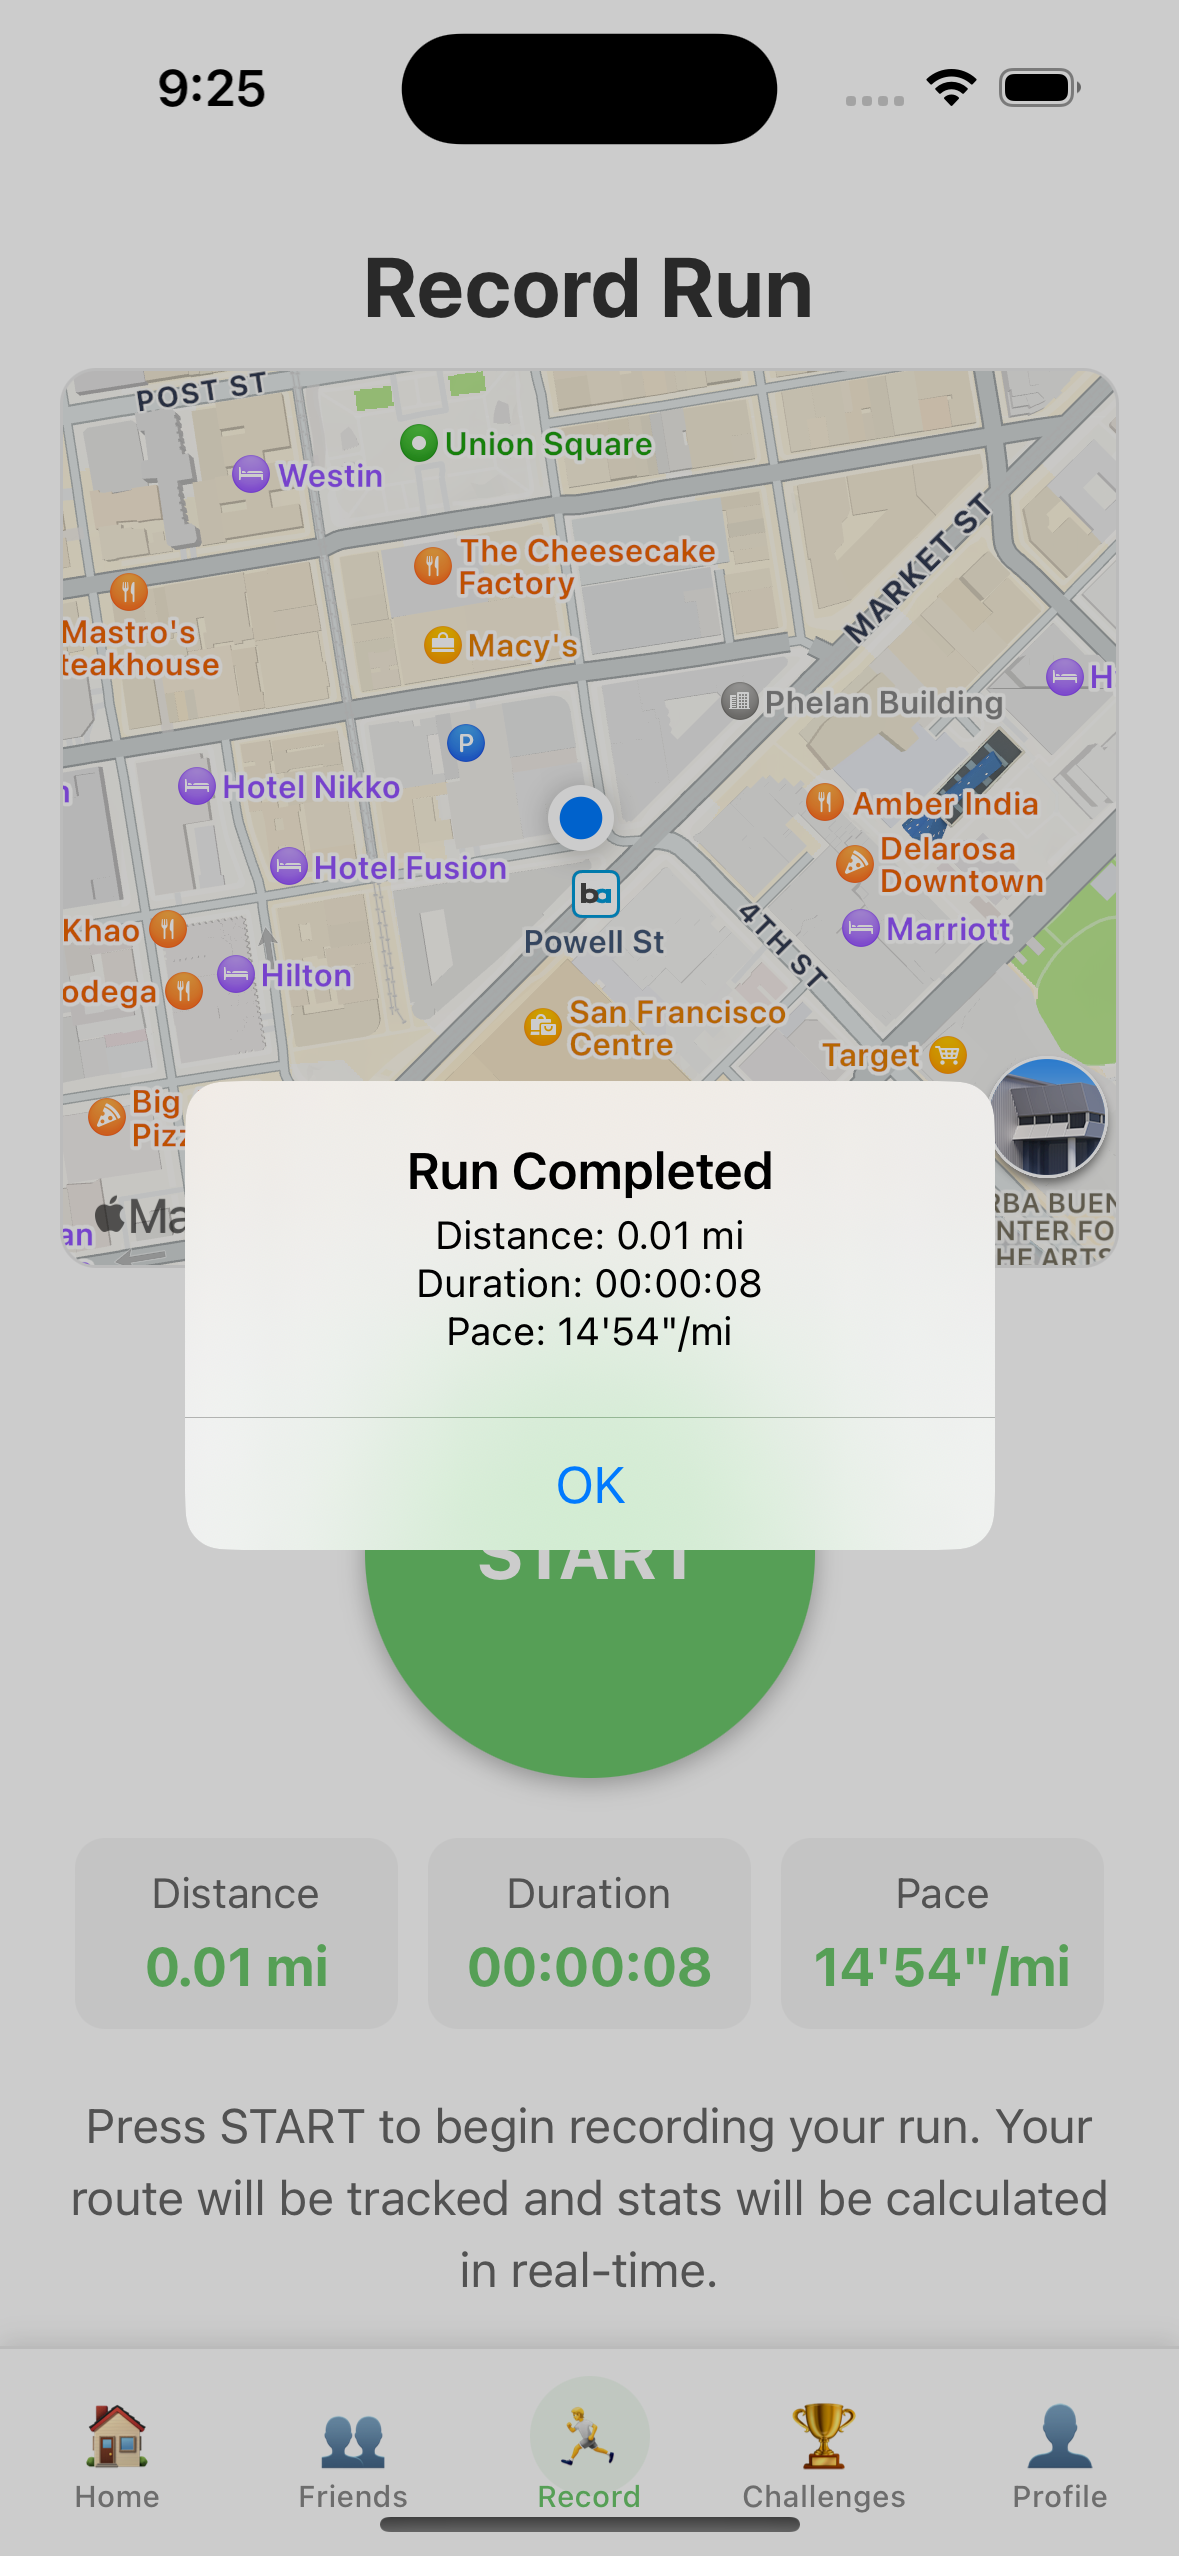
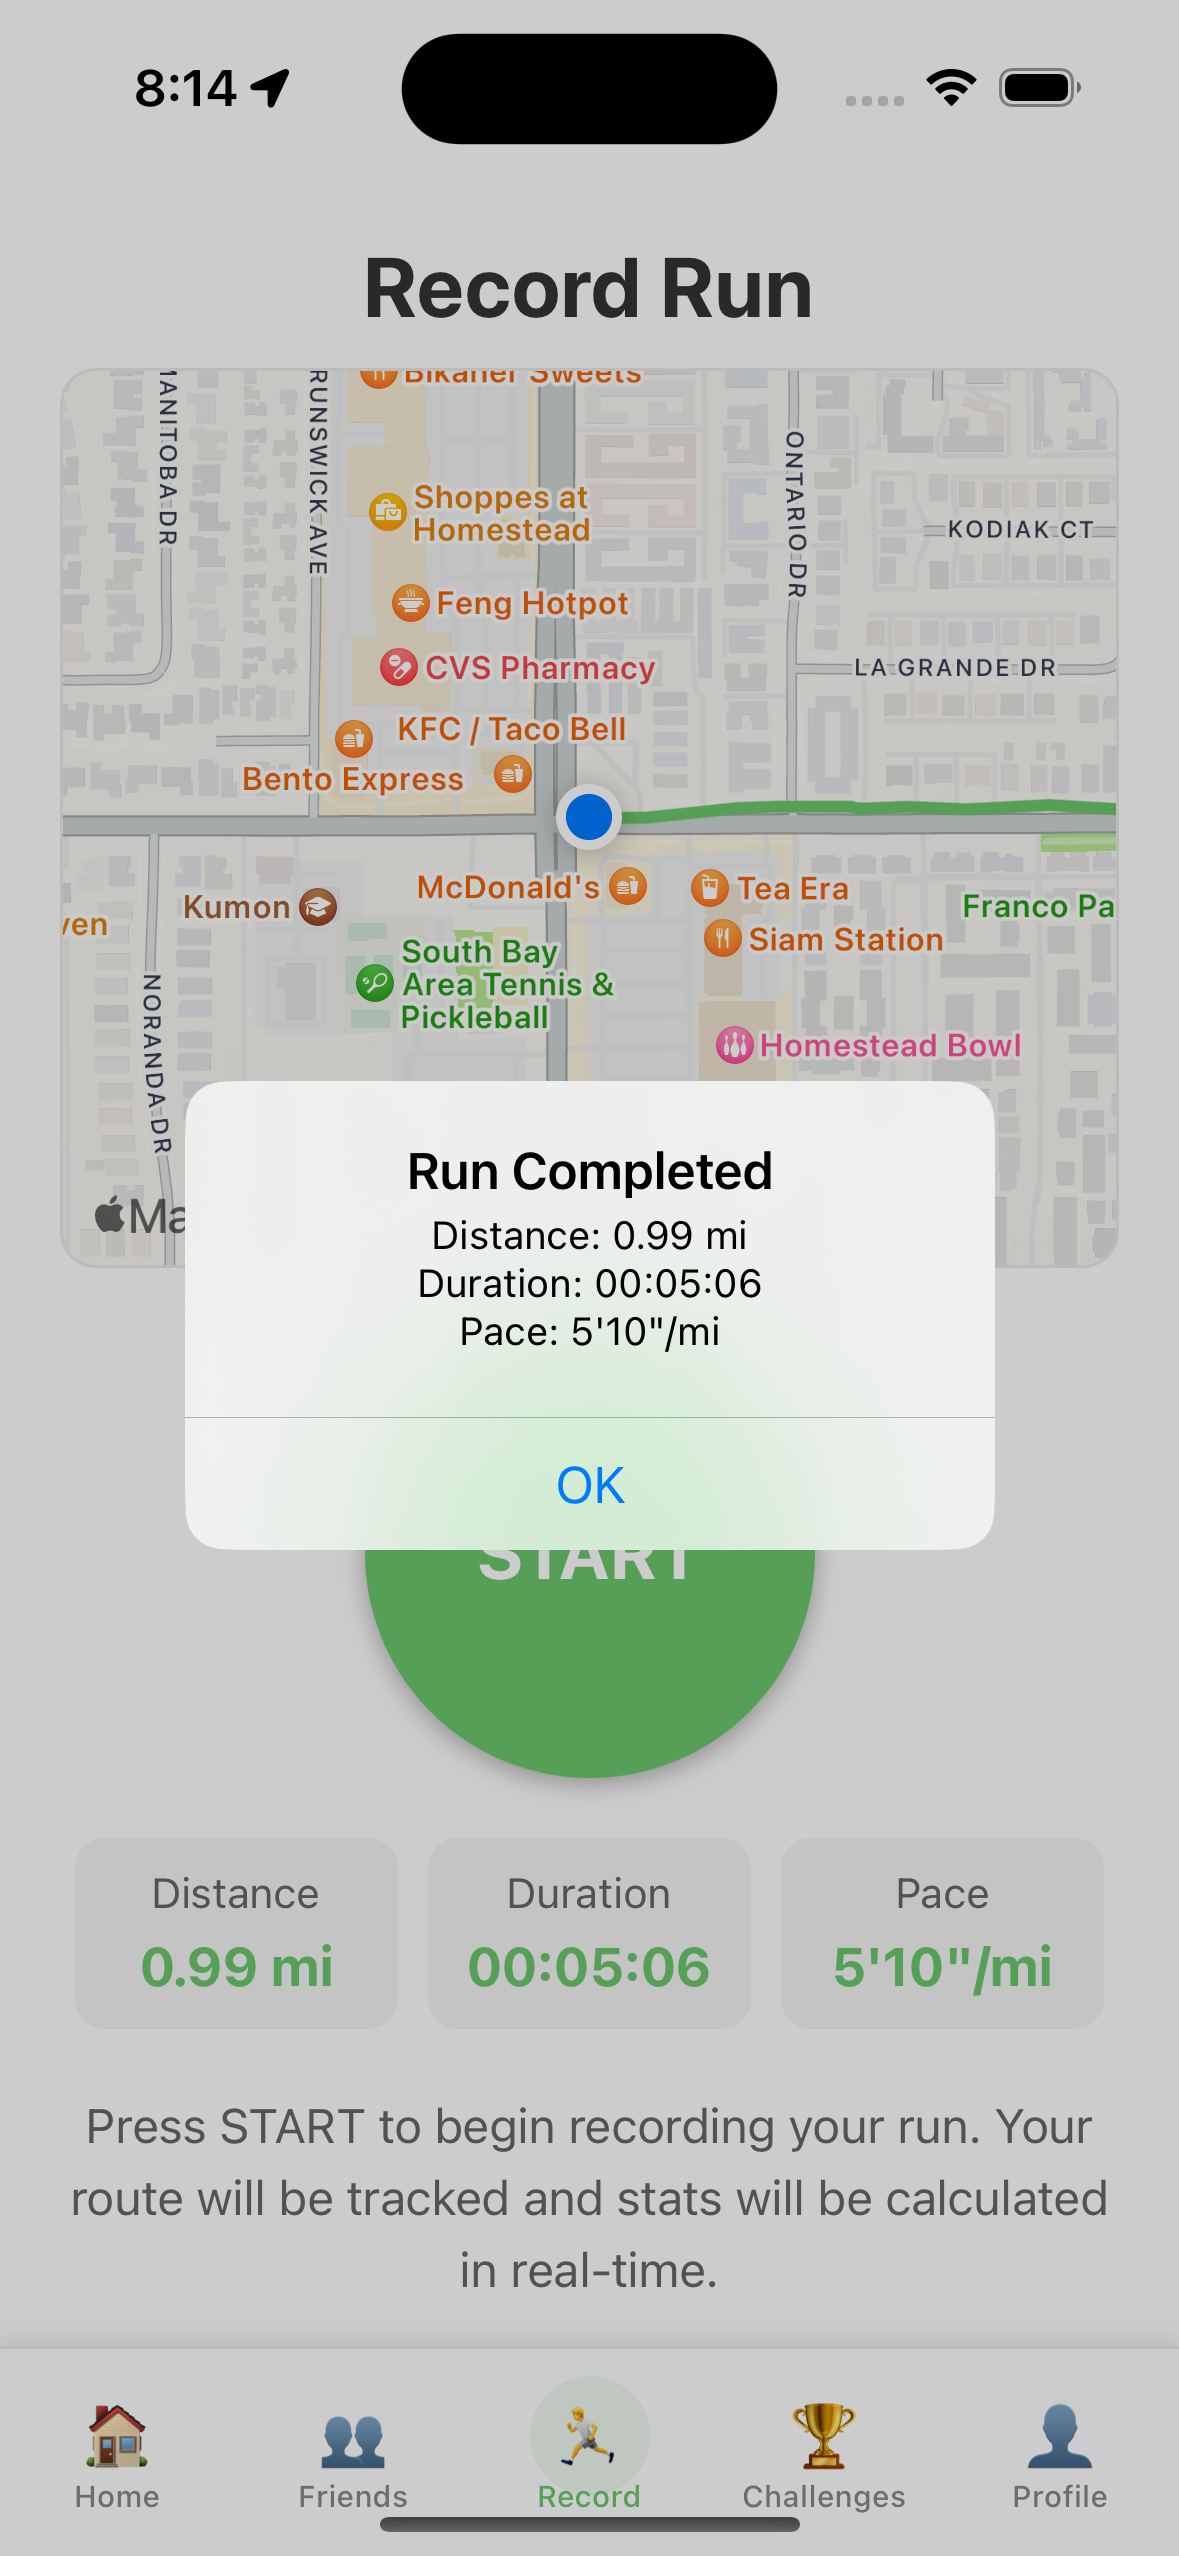
run functionality

diff --git a/src/screens/Record/RecordScreen.tsx b/src/screens/Record/RecordScreen.tsx
@@ -212,46 +212,47 @@ const RecordScreen = () => {
         setRouteCoordinates([location]);
       }
 
-      // For simulator testing
+      // For simulator testing - use a more aggressive polling approach
       if (__DEV__ && Platform.OS === 'ios') {
-        // Use a more controlled simulation for the simulator
+        // Poll for location changes more frequently
         watchId.current = setInterval(() => {
-          if (!location) {return;}
+          // Get current location on each interval
+          Geolocation.getCurrentPosition(
+            (position) => {
+              const newCoordinate = {
+                latitude: position.coords.latitude,
+                longitude: position.coords.longitude,
+              };
 
-          // Create a new coordinate with a small random offset (less frequent)
-          const newCoordinate = {
-            latitude: location.latitude + (Math.random() - 0.5) * 0.0002,
-            longitude: location.longitude + (Math.random() - 0.5) * 0.0002,
-          };
+              // Only add to route if position actually changed
+              if (!location ||
+                  newCoordinate.latitude !== location.latitude ||
+                  newCoordinate.longitude !== location.longitude) {
 
-          setLocation(newCoordinate);
+                setLocation(newCoordinate);
 
-          setRouteCoordinates(prevCoordinates => {
-            if (!Array.isArray(prevCoordinates) || prevCoordinates.length === 0) {
-              return [newCoordinate];
-            }
+                setRouteCoordinates(prevCoordinates => {
+                  if (!Array.isArray(prevCoordinates) || prevCoordinates.length === 0) {
+                    return [newCoordinate];
+                  }
 
-            const updatedCoordinates = [...prevCoordinates, newCoordinate];
+                  const updatedCoordinates = [...prevCoordinates, newCoordinate];
 
-            // Calculate new distance
-            const lastCoord = prevCoordinates[prevCoordinates.length - 1];
-            if (lastCoord) {
-              const newDistance = haversine(lastCoord, newCoordinate, { unit: 'mile' });
-              setDistance(prevDistance => prevDistance + newDistance);
-            }
+                  // Calculate new distance
+                  const lastCoord = prevCoordinates[prevCoordinates.length - 1];
+                  if (lastCoord) {
+                    const newDistance = haversine(lastCoord, newCoordinate, { unit: 'mile' });
+                    setDistance(prevDistance => prevDistance + newDistance);
+                  }
 
-            return updatedCoordinates;
-          });
-
-          // Center map on new location
-          if (mapRef.current) {
-            mapRef.current.animateToRegion({
-              ...newCoordinate,
-              latitudeDelta: 0.005,
-              longitudeDelta: 0.005,
-            });
-          }
-        }, 3000); // Less frequent updates (every 3 seconds)
+                  return updatedCoordinates;
+                });
+              }
+            },
+            (error) => console.log(error),
+            { enableHighAccuracy: true, timeout: 5000, maximumAge: 0 }
+          );
+        }, 500); // Poll every 500ms
       } else {
         // Watch position changes
         watchId.current = Geolocation.watchPosition(
@@ -271,25 +272,14 @@ const RecordScreen = () => {
                 longitude: position.coords.longitude,
               };
 
-              // For simulator testing - add small random movement if not moving
-              if (location &&
-                  newCoordinate.latitude === location.latitude &&
-                  newCoordinate.longitude === location.longitude) {
-                // Add tiny random movement for testing in simulator
-                newCoordinate.latitude += (Math.random() - 0.5) * 0.0001;
-                newCoordinate.longitude += (Math.random() - 0.5) * 0.0001;
-              }
+              // Update location state with the new coordinates
+              setLocation(newCoordinate);
 
-              setLocation(prevLocation => {
-                // Only update if we have a valid previous location
-                if (!prevLocation) {return newCoordinate;}
-                return newCoordinate;
-              });
-
+              // IMPORTANT: Always add the new coordinate to route coordinates
+              // This ensures the path follows the blue dot
               setRouteCoordinates(prevCoordinates => {
                 // Safety check
                 if (!Array.isArray(prevCoordinates)) {
-                  console.log('prevCoordinates is not an array:', prevCoordinates);
                   return [newCoordinate];
                 }
 
@@ -304,21 +294,7 @@ const RecordScreen = () => {
                         typeof lastCoord.latitude === 'number' &&
                         typeof lastCoord.longitude === 'number') {
                       const newDistance = haversine(lastCoord, newCoordinate, { unit: 'mile' });
-
-                      // Update distance state
-                      setDistance(prevDistance => {
-                        const updatedDistance = prevDistance + newDistance;
-
-                        // Update pace if duration exists
-                        if (duration > 0 && updatedDistance > 0) {
-                          const paceMinutes = duration / 60 / updatedDistance;
-                          const paceMinutesWhole = Math.floor(paceMinutes);
-                          const paceSeconds = Math.floor((paceMinutes - paceMinutesWhole) * 60);
-                          setPace(`${paceMinutesWhole}'${paceSeconds.toString().padStart(2, '0')}"/mi`);
-                        }
-
-                        return updatedDistance;
-                      });
+                      setDistance(prevDistance => prevDistance + newDistance);
                     }
                   } catch (error) {
                     console.log('Error calculating distance:', error);
